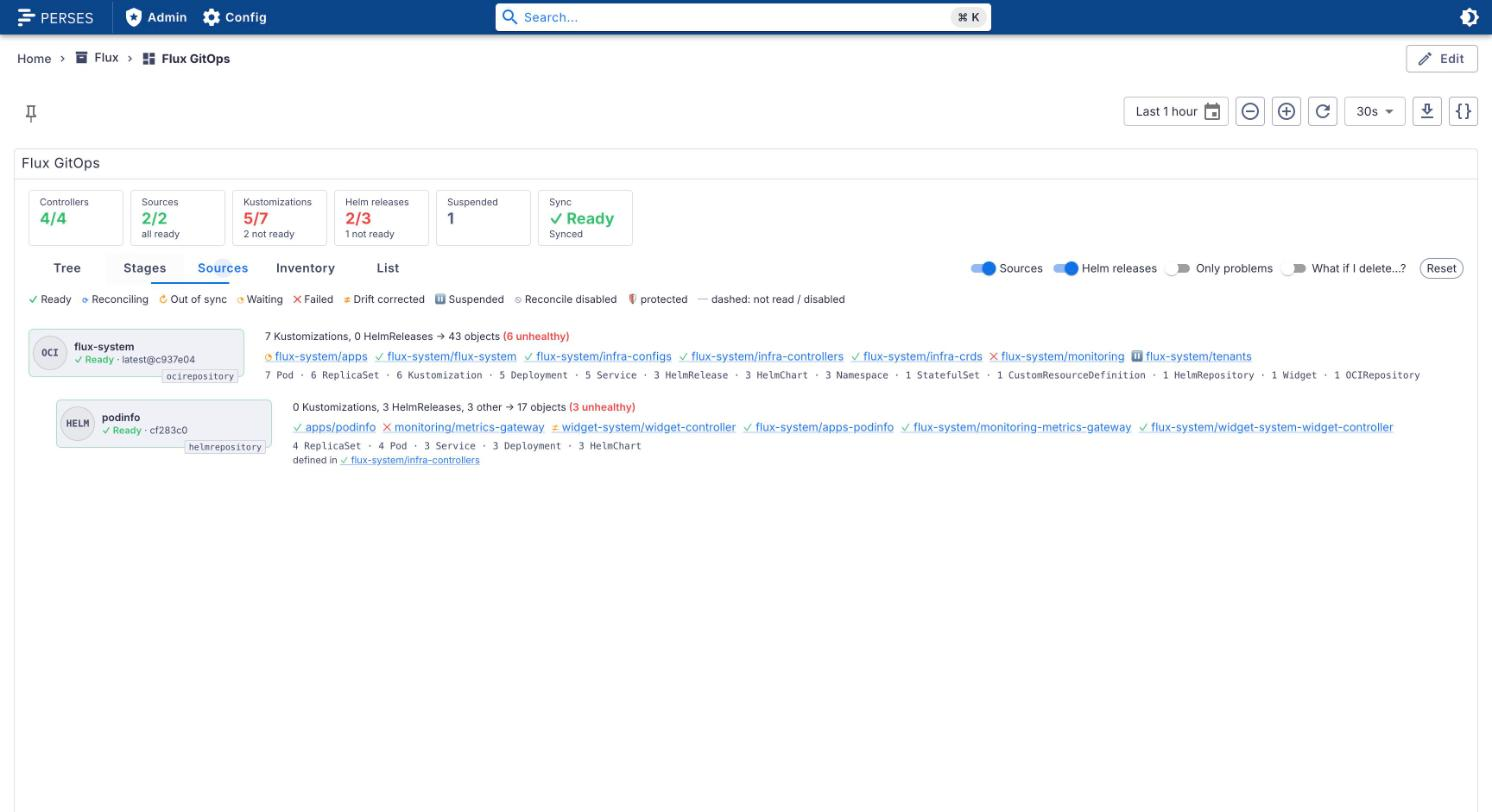
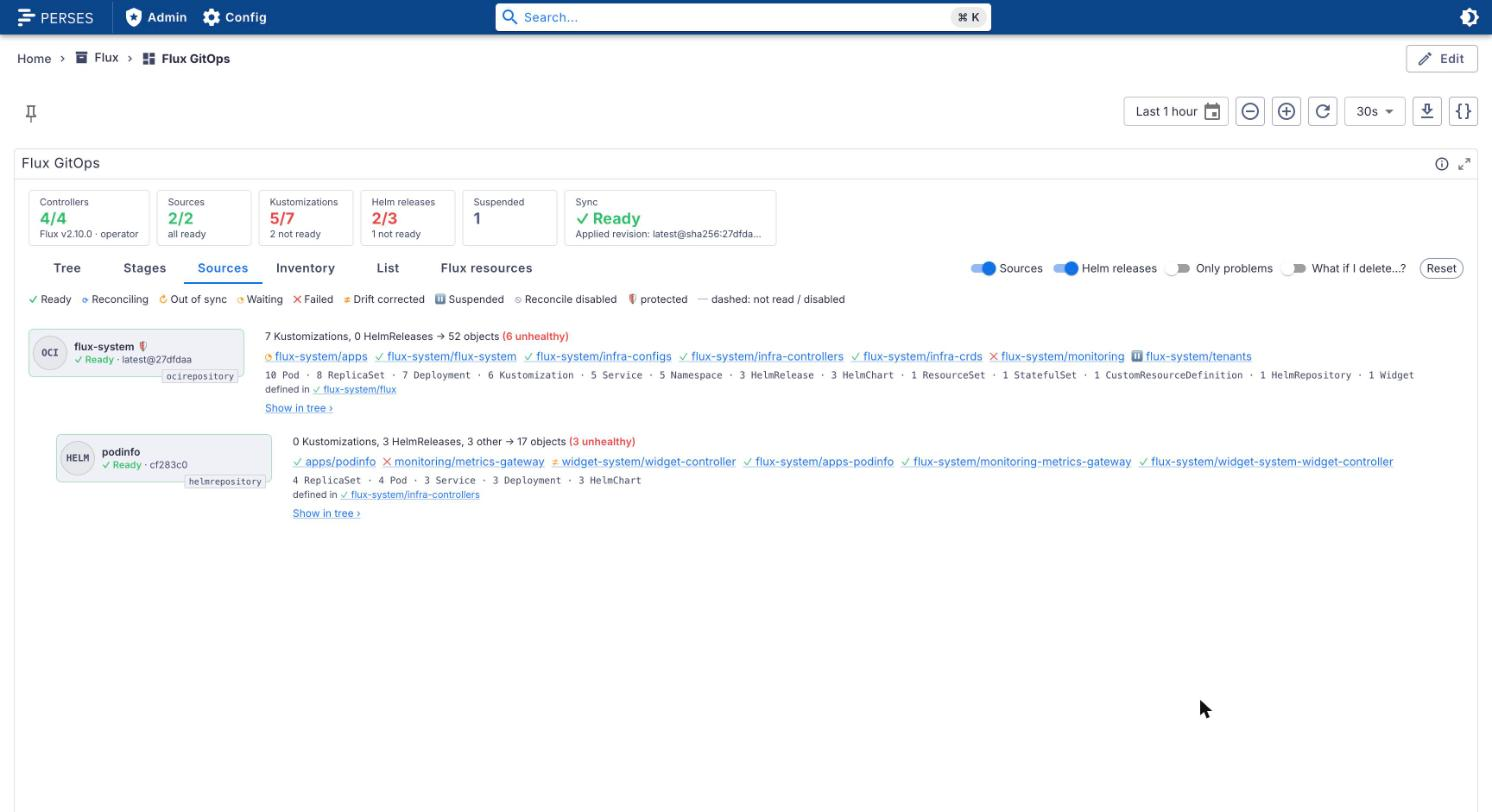
docs: chart updates need a future Kubernetes datasource; new screenshots
The Kubernetes datasource v0.1.0 refuses every allow-list pattern that
contains "proxy", and one such pattern makes Perses reject the whole
datasource. Chart updates therefore cannot read the source-controller
index yet: the column shows "no access". The README, deploy RBAC and
example datasource no longer tell operators to add the index path or a
services/proxy rule; the allow-list tests follow.

Retake the README screenshots from the dev stack, light and dark, and
add the Flux resources view and a tree page.

Claude-Session: https://claude.ai/code/session_01KRYPqj99R9GT2bUSNZUb83

diff --git a/src/model/fetch.test.ts b/src/model/fetch.test.ts
@@ -152,17 +152,13 @@ describe('allow-list paths', () => {
     await fetchEstate(all, { showPods: true });
     const scoped = fakeClient({});
     await fetchEstate(scoped, { showPods: true, namespaces: ['flux-system', 'team-a1'] });
-    // Chart updates read one more kind of path: a HelmRepository index through source-controller's proxy.
-    const { indexProxyPath } = await import('./chart-updates');
-    const index = indexProxyPath(
-      'http://source-controller.flux-system.svc.cluster.local./helmrepository/team-a1/podinfo/index-0f1e2d3c4b5a.yaml',
-    );
-    const indexPaths = 'path' in index ? [index.path] : [];
-    const expected = [...new Set([...all.calls, ...scoped.calls, ...indexPaths])].sort();
+    // Chart updates' index path through source-controller's proxy is left out: the Kubernetes datasource
+    // v0.1.0 refuses proxy patterns, so the shipped allow-list does not admit it.
+    const expected = [...new Set([...all.calls, ...scoped.calls])].sort();
     const { readFileSync, writeFileSync } = await import('node:fs');
     const { resolve } = await import('node:path');
     const file = resolve(process.cwd(), 'test/allowlist/paths.json');
-    // UPDATE_ALLOWLIST=1 npm test rewrites the file after a change to RESOURCES or the index path.
+    // UPDATE_ALLOWLIST=1 npm test rewrites the file after a change to RESOURCES.
     if (process.env.UPDATE_ALLOWLIST) writeFileSync(file, `${JSON.stringify({ allowed: expected }, null, 2)}\n`);
     const listed = JSON.parse(readFileSync(file, 'utf8')) as { allowed: string[] };
     expect([...listed.allowed].sort()).toEqual(expected);

diff --git a/test/allowlist/allowlist_test.go b/test/allowlist/allowlist_test.go
@@ -124,6 +124,7 @@ func TestDeniedPaths(t *testing.T) {
 		"/api/v1/namespaces/flux-system/pods/source-controller-1/log",
 		"/api/v1/namespaces/flux-system/pods/source-controller-1/exec",
 		"/api/v1/namespaces/flux-system/services/notification-controller:80/proxy/",
+		"/api/v1/namespaces/flux-system/services/source-controller:80/proxy/helmrepository/team-a1/podinfo/index-0f1e2d3c4b5a.yaml",
 		"/api/v1/nodes/node-1/proxy/metrics",
 		"/apis/kustomize.toolkit.fluxcd.io/v1/namespaces/flux-system/kustomizations/apps",
 		"/apis/kustomize.toolkit.fluxcd.io/v1/namespaces/flux-system/kustomizations/apps/status",

diff --git a/README.md b/README.md
@@ -18,8 +18,8 @@ there.
   and CRD cascades into other teams' objects, lost volumes, and what fails afterwards.
 
 <picture>
-  <source media="(prefers-color-scheme: dark)" srcset="docs/images/tree-dark.jpg">
-  <img alt="Tree view: the root Kustomization, its stages, a failed HelmRelease and what it installed" src="docs/images/tree-light.jpg">
+  <source media="(prefers-color-scheme: dark)" srcset="docs/images/tree-page-dark.jpg">
+  <img alt="Tree page of the failed monitoring Kustomization: its HelmRelease, the chart and what it installed, down to the failing pod" src="docs/images/tree-page-light.jpg">
 </picture>
 
 ## Supported versions
@@ -52,8 +52,9 @@ Six views, a header and a drawer:
 - **Inventory**: everything the selected Kustomization or HelmRelease manages, grouped by kind.
 - **List**: every Flux object in a sortable table, problems first. Each HelmRelease has a "Chart update" cell:
   `1.2.3 → 1.4.0 (in range)` when Flux picks the newer chart up on its next reconcile, `(needs a bump)` when it is
-  outside `spec.chart.spec.version`, `✓ newest`, or "not checked" with the reason in a tooltip (see
-  [Chart updates](#chart-updates)).
+  outside `spec.chart.spec.version`, `✓ newest`, or "not checked" with the reason in a tooltip. It needs a
+  Kubernetes datasource that does not exist yet; with perses-plugin-kubernetes v0.1.0 the cell shows "✕ no access"
+  (see [Chart updates](#chart-updates)).
 - **Flux resources**: the Flux installation, its controllers and how many objects of each Flux kind are in which
   state. See [Flux resources](#flux-resources).
 - **Drawer**: conditions with reason and message, revisions with commit links, Helm history, the chart update,
@@ -68,6 +69,8 @@ under `prefers-reduced-motion`.
 | <picture><source media="(prefers-color-scheme: dark)" srcset="docs/images/stages-dark.jpg"><img alt="Stages view" src="docs/images/stages-light.jpg"></picture> | <picture><source media="(prefers-color-scheme: dark)" srcset="docs/images/sources-dark.jpg"><img alt="Sources view" src="docs/images/sources-light.jpg"></picture> |
 | **Inventory** | **List** |
 | <picture><source media="(prefers-color-scheme: dark)" srcset="docs/images/inventory-dark.jpg"><img alt="Inventory view" src="docs/images/inventory-light.jpg"></picture> | <picture><source media="(prefers-color-scheme: dark)" srcset="docs/images/list-dark.jpg"><img alt="List view" src="docs/images/list-light.jpg"></picture> |
+| **Tree, top level** | **Flux resources** |
+| <picture><source media="(prefers-color-scheme: dark)" srcset="docs/images/tree-dark.jpg"><img alt="Tree view, top level: the root's sources and Kustomizations" src="docs/images/tree-light.jpg"></picture> | <picture><source media="(prefers-color-scheme: dark)" srcset="docs/images/flux-resources-dark.jpg"><img alt="Flux resources view: the FluxInstance, Flux version, sync source, operator and cluster" src="docs/images/flux-resources-light.jpg"></picture> |
 
 ### Delete impact
 
@@ -123,12 +126,9 @@ operator and can lag a few minutes. Field sources are in [docs/DECISIONS.md](doc
 - It never reads Secrets, ConfigMaps or ServiceAccounts: the datasource cannot do metadata-only reads, so reading
   them would pull Secret data through the proxy. Inventory entries of those kinds are drawn from the inventory,
   dashed, "not read".
-- No writes, no watch, no subresources (`status`, `log`, `exec`), with one exception: `GET` on source-controller's
-  Service proxy, for chart updates. Through it the panel only reads Helm repository indexes
-  (`/helmrepository/<namespace>/<name>/index-<digest>.yaml`) that source-controller already fetched and serves to
-  the other Flux controllers. The RBAC rule names only the `source-controller` Service, and the allow-list pattern
-  only that path shape, so no other Service and no other source-controller path (charts, Git or OCI artifacts) is
-  reachable. Leave both out to turn the check off.
+- No writes, no watch, no subresources (`status`, `log`, `exec`, `proxy`). [Chart updates](#chart-updates) would
+  need one: `GET` on source-controller's Service proxy for Helm repository indexes. The Kubernetes datasource
+  (v0.1.0) refuses every allow-list pattern that contains `proxy`, so the setup below does not grant it.
 
 ## Setup
 
@@ -164,11 +164,6 @@ rules:
   - apiGroups: [apps]
     resources: [deployments, statefulsets, daemonsets, replicasets]
     verbs: [get, list]
-  # Chart updates: read the Helm repository indexes source-controller serves (optional)
-  - apiGroups: ['']
-    resources: [services/proxy]
-    resourceNames: [source-controller, 'source-controller:80']
-    verbs: [get]
 ```
 
 A missing permission shows a warning naming the refused lists, not an empty panel.
@@ -189,13 +184,11 @@ refuse.
   { "method": "GET", "endpointPattern": "^/apis/source\\.toolkit\\.fluxcd\\.io/v1/(namespaces/[a-z0-9]([-a-z0-9]*[a-z0-9])?/)?(gitrepositories|ocirepositories|helmrepositories|helmcharts|buckets)$" },
   { "method": "GET", "endpointPattern": "^/apis/kustomize\\.toolkit\\.fluxcd\\.io/v1/(namespaces/[a-z0-9]([-a-z0-9]*[a-z0-9])?/)?kustomizations$" },
   { "method": "GET", "endpointPattern": "^/apis/helm\\.toolkit\\.fluxcd\\.io/v2/(namespaces/[a-z0-9]([-a-z0-9]*[a-z0-9])?/)?helmreleases$" },
-  { "method": "GET", "endpointPattern": "^/apis/fluxcd\\.controlplane\\.io/v1/(namespaces/[a-z0-9]([-a-z0-9]*[a-z0-9])?/)?(fluxinstances|fluxreports|resourcesets|resourcesetinputproviders)$" },
-  { "method": "GET", "endpointPattern": "^/api/v1/namespaces/[a-z0-9]([-a-z0-9]*[a-z0-9])?/services/source-controller:80/proxy/helmrepository/[a-z0-9]([-a-z0-9]*[a-z0-9])?/[a-z0-9]([-a-z0-9.]*[a-z0-9])?/index-[a-f0-9]+\\.yaml$" }
+  { "method": "GET", "endpointPattern": "^/apis/fluxcd\\.controlplane\\.io/v1/(namespaces/[a-z0-9]([-a-z0-9]*[a-z0-9])?/)?(fluxinstances|fluxreports|resourcesets|resourcesetinputproviders)$" }
 ]
 ```
 
-The namespaced forms are used when the panel's `namespaces` option is set. The last pattern is for
-[chart updates](#chart-updates) and is optional.
+The namespaced forms are used when the panel's `namespaces` option is set.
 
 ### Chart updates
 
@@ -204,7 +197,12 @@ version (`status.history[0].chartVersion`) with the versions in the repository i
 repository itself: it reads the index source-controller already downloaded, from the HelmRepository's
 `status.artifact.url`, through the API server's service proxy
 (`/api/v1/namespaces/<flux-ns>/services/source-controller:80/proxy/helmrepository/<ns>/<name>/index-<digest>.yaml`).
-That needs the `services/proxy` rule and the last allow-list pattern above.
+
+**Not available yet.** The [Kubernetes datasource](https://github.com/astrona-io/perses-plugin-kubernetes) v0.1.0
+refuses any `allowedEndpoints` pattern that contains `proxy`: adding the index pattern makes Perses reject the whole
+datasource. Until a datasource release can admit that one exact path, every HelmRelease's cell and drawer row shows
+"✕ no access". Set `checkChartUpdates: false` to hide them. Do not add a `services/proxy` RBAC rule for this panel.
+What follows describes how the check works once the datasource allows it.
 
 - Prereleases count only when the installed version is one.
 - "in range": the newest version matches `spec.chart.spec.version` (or the HelmChart's `spec.version`), so Flux
@@ -273,7 +271,7 @@ Every option is optional.
 | `fluxWebUIUrl` | none | e.g. `https://flux.example.com/resource/${kind}/${namespace}/${name}` |
 | `gitCommitUrl` | none | e.g. `https://${repo}/commit/${revision}` |
 | `enableDeleteImpact` | `true` | shows the "What if I delete...?" toggle |
-| `checkChartUpdates` | `true` | reads Helm repository indexes for the "Chart update" column and drawer row |
+| `checkChartUpdates` | `true` | reads Helm repository indexes for the "Chart update" column and drawer row; shows "✕ no access" until the Kubernetes datasource allows the index path ([Chart updates](#chart-updates)) |
 
 ```json
 {

diff --git a/CHANGELOG.md b/CHANGELOG.md
@@ -16,9 +16,10 @@ All notable changes to this project are documented here. The format follows
 - Chart updates for HelmReleases: a "Chart update" column in the List view and a row in the drawer
   (`1.2.3 → 1.4.0`, in range or needs a bump). Read from the Helm repository index source-controller already
   serves, through the API server's service proxy, lazily and once per index digest. New option
-  `checkChartUpdates` (default `true`); `deploy/rbac.yaml` gains `get` on `services/proxy` for
-  `source-controller` only, and `deploy/kubernetes-datasource.json` a GET pattern limited to its index paths.
-  Adds the `yaml` and `semver` dependencies.
+  `checkChartUpdates` (default `true`). Adds the `yaml` and `semver` dependencies.
+  **Known limitation:** the Kubernetes datasource v0.1.0 refuses allow-list patterns that contain `proxy`, so the
+  index cannot be read yet and every cell shows "✕ no access" (set `checkChartUpdates: false` to hide them). The
+  shipped `deploy/rbac.yaml` and `deploy/kubernetes-datasource.json` do not grant the index path.
 - Tree pages: the tree tab opens on the top-level Flux objects (those no other Flux object manages); clicking a card
   with children opens its page, and a breadcrumb ("All resources › flux-system/apps › …") leads back. A "Flux root"
   link keeps the root's drawer reachable.

diff --git a/docs/DECISIONS.md b/docs/DECISIONS.md
@@ -145,6 +145,12 @@ on HelmRelease and HelmChart (upstream already has `revision` and `source_name` 
 
 ## Chart updates
 
+- **Not available with the Kubernetes datasource v0.1.0.** Its schema refuses every `allowedEndpoints` pattern that
+  contains `proxy` (`kubernetes-datasource.cue`), and Perses rejects the whole datasource when one does. So
+  `deploy/kubernetes-datasource.json` and `deploy/rbac.yaml` leave the index path and the `services/proxy` rule out,
+  and the cells show "✕ no access". The design below stays in the code for a datasource release that admits this one
+  exact, operator-supplied path.
+
 - **Read the index source-controller already serves, not the chart repository.** A HelmRepository's
   `status.artifact.url` points at source-controller's own Service. The panel reads it through the Kubernetes API
   service proxy (`/api/v1/namespaces/<ns>/services/source-controller:80/proxy/<path>`) via the datasource's Perses
